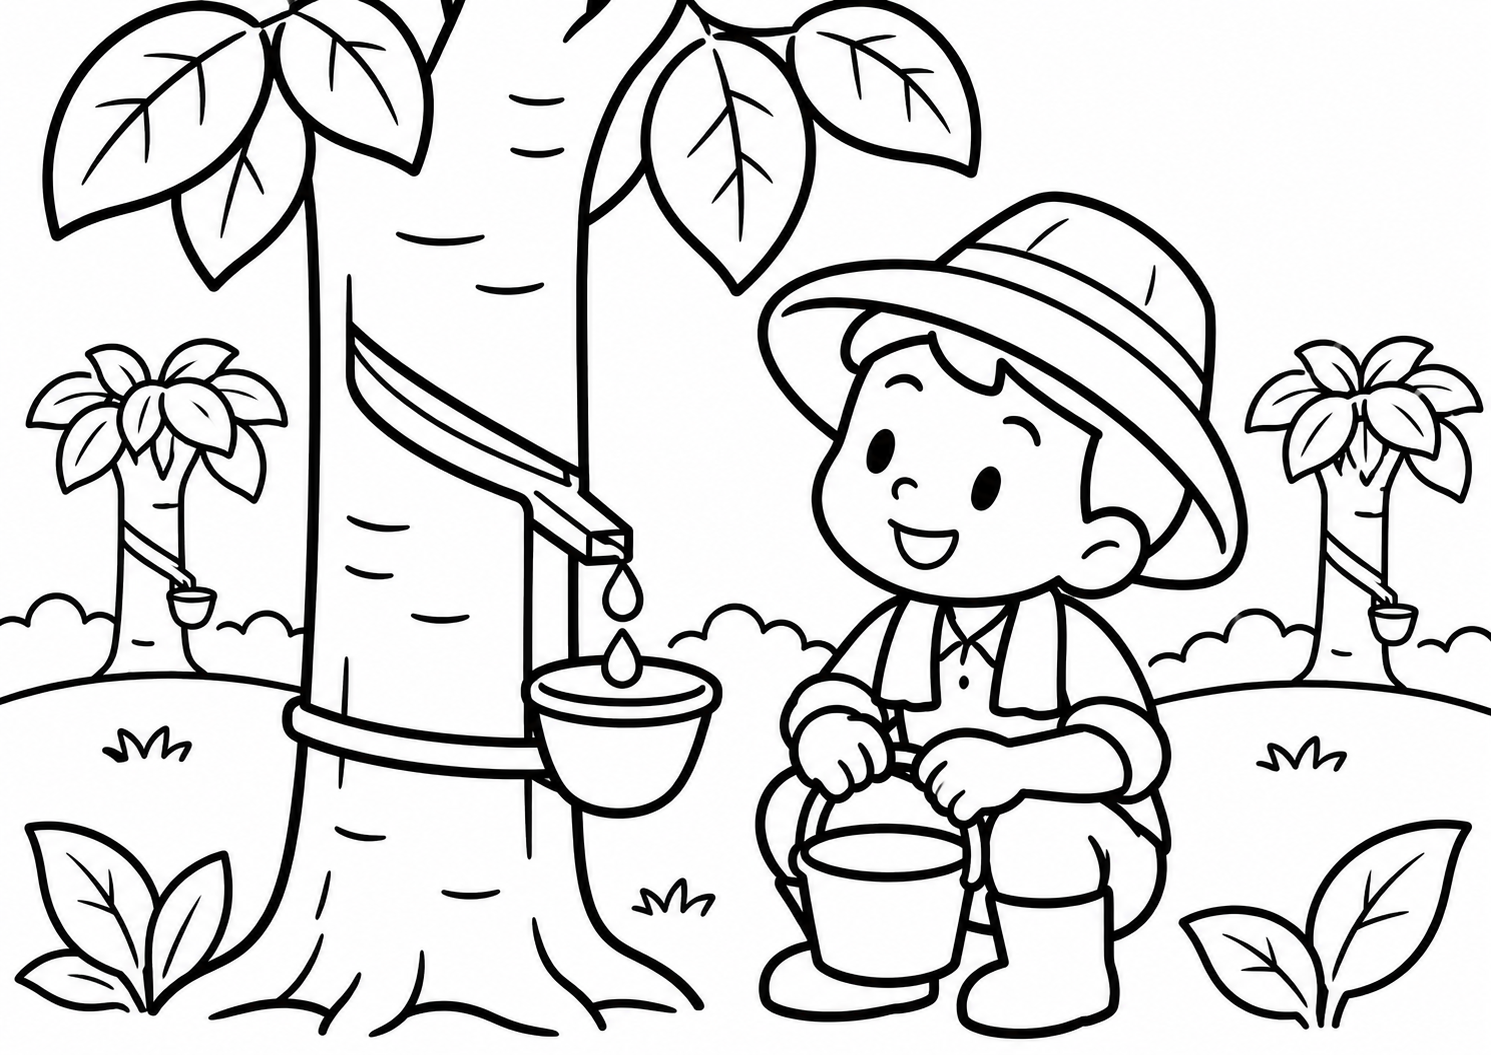
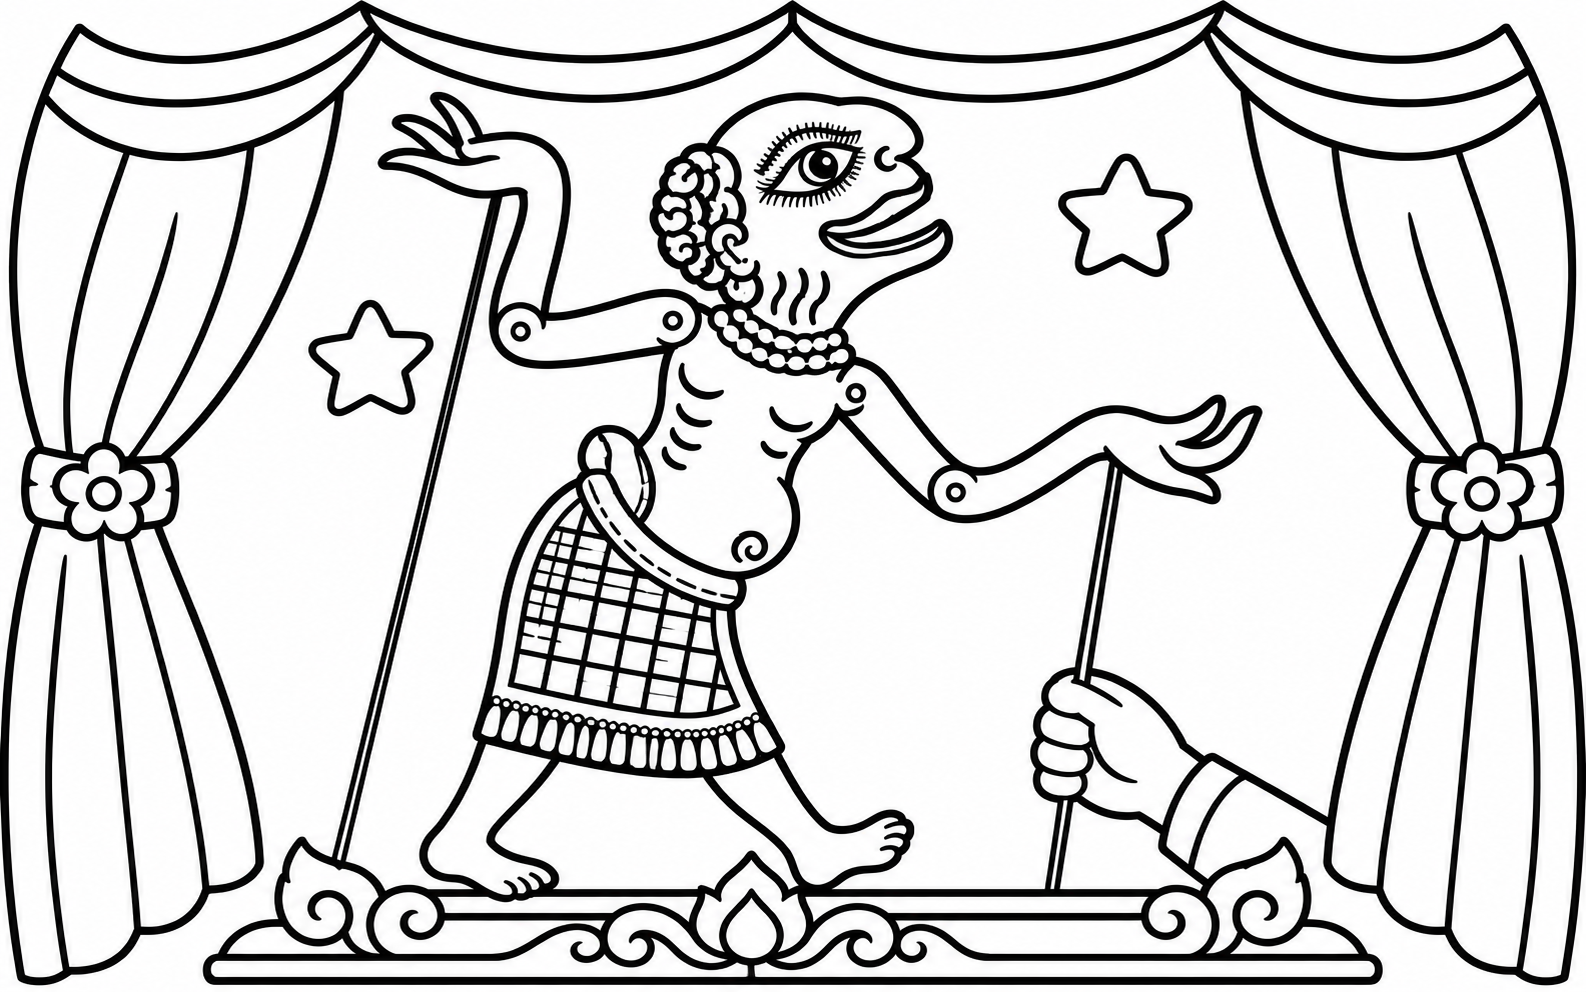
Update shadow puppet artwork with a fresh image URL

diff --git a/src/lib/activity.ts b/src/lib/activity.ts
@@ -5,12 +5,12 @@ export const COLOR_LIMIT = 2;
 export const ACTIVITY_STORAGE_KEY = "art-local-classroom-v1";
 
 // Keep this order and the picture IDs stable for saved classroom sessions.
-// Originals are in UI/img; the public copies retain the complete, unedited images.
+// Public copies retain the complete, unedited images; versioned filenames refresh replaced artwork.
 const PICTURES = [
   { label: "🦪 หอยนางรม", file: "oysters.png" },
   { label: "🚤 เรือพระ", file: "chak-phra.png" },
   { label: "🌺 ดอกบัวผุด", file: "rafflesia.png" },
-  { label: "🎭 หนังตะลุง", file: "shadow-puppet.png" },
+  { label: "🎭 หนังตะลุง", file: "shadow-puppet-e746ecd061c8.png" },
   { label: "🏝 เกาะสมุย–เกาะพะงัน–หมู่เกาะอ่างทอง", file: "seaside.png", wheelLabelLines: ["🏝 เกาะสมุย", "–เกาะพะงัน", "–หมู่เกาะอ่างทอง"] },
   { label: "🌳 ต้นยางพารา", file: "rubber-tapping.png" },
   { label: "🛕 พระบรมธาตุไชยา", file: "pagoda.png", wheelLabelLines: ["🛕 พระบรมธาตุ", "ไชยา"] },

diff --git a/README.md b/README.md
@@ -69,7 +69,7 @@ npm start
 
 ใช้ตัวละคร **ครูครีม** ชุดใหม่จาก `UI/creamNew/` แทนภาพเดิมทุกจุด ทั้งข้างวงล้อ หน้าผลลัพธ์ และโหมดจับเวลา เลือก 6 ท่าตามขั้นตอน: ทักทาย → ลุ้นตอนหมุน → คิดตอนถาม → ให้กำลังใจตอนเฉลย → ชวนสุ่มภาพ → ฉลองเมื่อได้ภาพ/จบกิจกรรม ภาพต้นฉบับถูกใช้ผ่าน Next.js Image โดยไม่แก้ไขไฟล์
 
-ใช้ภาพระบายสีจริงทั้ง 10 ภาพจาก `UI/img/`: 🥚 ไข่เค็มไชยา, 🦪 หอยนางรม, 🚤 เรือพระ, 🎭 หนังตะลุง, 🍈 เงาะโรงเรียน, 👗 ผ้าปาเต๊ะ, 🌳 ต้นยางพารา, 🛕 พระบรมธาตุไชยา, 🏝 เกาะสมุย–เกาะพะงัน–หมู่เกาะอ่างทอง และ 🌺 ดอกบัวผุด โดยคัดลอกต้นฉบับไปที่ `public/wheel-images/` และผูกชื่อกับภาพใน `src/lib/activity.ts` ชื่อยาวแบ่งเป็นหลายบรรทัดบนวงล้อและปรับขนาดในผลลัพธ์ โดยคง ID ภาพเดิมสำหรับกิจกรรมที่บันทึกไว้ วงล้อใช้ภาพย่อผ่าน Next.js Image ส่วนการ์ดผลลัพธ์แสดงภาพเต็มในสัดส่วนแนวนอน พร้อมจัดพื้นที่ภาพให้พอดีกับจอโดยไม่เลื่อน
+ใช้ภาพระบายสีจริงทั้ง 10 ภาพ: 🥚 ไข่เค็มไชยา, 🦪 หอยนางรม, 🚤 เรือพระ, 🎭 หนังตะลุง, 🍈 เงาะโรงเรียน, 👗 ผ้าปาเต๊ะ, 🌳 ต้นยางพารา, 🛕 พระบรมธาตุไชยา, 🏝 เกาะสมุย–เกาะพะงัน–หมู่เกาะอ่างทอง และ 🌺 ดอกบัวผุด โดยเก็บภาพที่ใช้งานใน `public/wheel-images/` และผูกชื่อกับภาพใน `src/lib/activity.ts` รายการต้นฉบับจาก `UI/img/` และประวัติการแทนภาพอยู่ใน `public/wheel-images/README.md` ชื่อยาวแบ่งเป็นหลายบรรทัดบนวงล้อและปรับขนาดในผลลัพธ์ โดยคง ID ภาพเดิมสำหรับกิจกรรมที่บันทึกไว้ วงล้อใช้ภาพย่อผ่าน Next.js Image ส่วนการ์ดผลลัพธ์แสดงภาพเต็มในสัดส่วนแนวนอน พร้อมจัดพื้นที่ภาพให้พอดีกับจอโดยไม่เลื่อน
 
 ## เสียงประกอบ
 

diff --git a/public/wheel-images/README.md b/public/wheel-images/README.md
@@ -1,15 +1,17 @@
 # ภาพสำหรับวงล้อ
 
-ภาพทั้ง 10 ภาพคัดลอกโดยไม่แก้ไขจาก `UI/img/` ใช้ทั้งบนวงล้อและในผลการสุ่ม โดยรักษาสัดส่วนเดิม ชื่อภาพและลำดับกำหนดไว้ใน `src/lib/activity.ts` ควรคง ID `picture-1` ถึง `picture-10` เพื่อให้การเล่นที่บันทึกไว้ยังอ้างอิงภาพเดิม
+ภาพทั้ง 10 ภาพใช้ทั้งบนวงล้อและในผลการสุ่ม โดยรักษาภาพและสัดส่วนเดิม ชื่อภาพและลำดับกำหนดไว้ใน `src/lib/activity.ts` ควรคง ID `picture-1` ถึง `picture-10` เพื่อให้การเล่นที่บันทึกไว้ยังอ้างอิงภาพเดิม
+
+อัปเดต 8 พฤศจิกายน 2026: ภาพหนังตะลุงใหม่อยู่ใน `UI/img/74a7f55e-97dd-4878-ad07-08496d862dc9.png` ซึ่งแทนที่ไฟล์ต้นฉบับยางพาราเดิม จึงนำภาพใหม่มาใช้กับ `shadow-puppet-e746ecd061c8.png` ส่วนภาพกรีดยางต้นฉบับยังเก็บไว้ใน `rubber-tapping.png` ชื่อไฟล์หนังตะลุงมีรหัสจากเนื้อหาภาพเพื่อให้ภาพย่อและการ์ดผลลัพธ์โหลดภาพใหม่แทนแคชเดิม
 
 | ID | ภาพ | ไฟล์ที่ใช้ | ไฟล์ต้นฉบับใน UI/img |
 | --- | --- | --- | --- |
 | picture-1 | 🦪 หอยนางรม | oysters.png | 8c845380-ac25-4012-bf5e-9b66a05a2220.png |
 | picture-2 | 🚤 เรือพระ | chak-phra.png | 4e57e18c-d558-42ac-a82b-34a55e70f584.png |
 | picture-3 | 🌺 ดอกบัวผุด | rafflesia.png | 9e989860-0fdf-4db7-a5ed-46b00457ead6.png |
-| picture-4 | 🎭 หนังตะลุง | shadow-puppet.png | 54ba31c7-7d6e-4243-8ff7-8f1267b3869d.png |
+| picture-4 | 🎭 หนังตะลุง | shadow-puppet-e746ecd061c8.png | 74a7f55e-97dd-4878-ad07-08496d862dc9.png |
 | picture-5 | 🏝 เกาะสมุย–เกาะพะงัน–หมู่เกาะอ่างทอง | seaside.png | 21312238-98bf-4b25-a1e5-606704e7bf7a.png |
-| picture-6 | 🌳 ต้นยางพารา | rubber-tapping.png | 74a7f55e-97dd-4878-ad07-08496d862dc9.png |
+| picture-6 | 🌳 ต้นยางพารา | rubber-tapping.png | ใช้สำเนาต้นฉบับใน public/wheel-images/rubber-tapping.png |
 | picture-7 | 🛕 พระบรมธาตุไชยา | pagoda.png | 9bdce7e4-755a-48a4-8d85-439b59e01fc0.png |
 | picture-8 | 🍈 เงาะโรงเรียน | rambutan.png | 6d21e417-628c-4ffe-828f-88af989a041d.png |
 | picture-9 | 👗 ผ้าปาเต๊ะ | floral-fabric.png | d53bd29b-c380-46f0-8415-eaf9880fa4f8.png |
